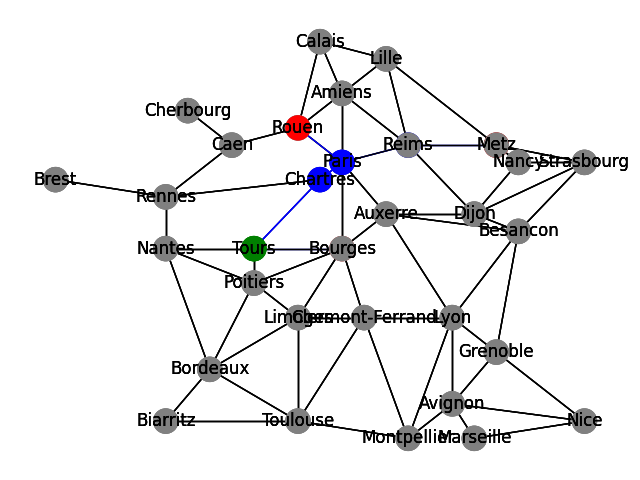
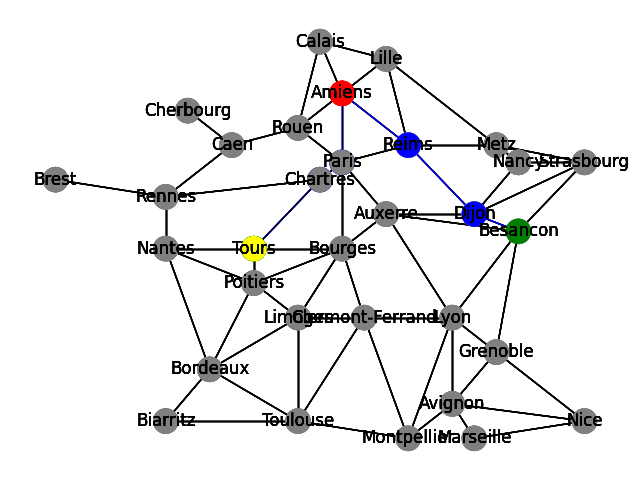
Ajout déplacement entre villes et fin si arrivée à destination

diff --git a/src/view.py b/src/view.py
@@ -1,3 +1,4 @@
+from tkinter import messagebox
 import PIL.ImageTk, PIL.Image
 from tkinter import *
 from tkinter.ttk import Combobox
@@ -19,6 +20,10 @@ class View(Frame):
 
     def set_controller(self, controller):
         self.controller = controller
+    
+    def update_image_France():
+        View.img_France = PIL.ImageTk.PhotoImage(PIL.Image.open("france_graphe.png"))
+        View.lbl_France.configure(image=View.img_France)
 
     def display_choose_route(self):
         self.frm_graph = Frame(master=self)
@@ -59,24 +64,39 @@ class View(Frame):
         self.btn_confirm.pack(fill=X)
         self.btn_start_path.pack(fill=X)
 
-    def update_image_France(self):
-        View.img_France = PIL.ImageTk.PhotoImage(PIL.Image.open("france_graphe.png"))
-        View.lbl_France.configure(image=View.img_France)
+    def start_path(self):
+        controller.Controller.current_town = controller.Controller.start_town
+        controller.Controller.neighbors_current_town = list(controller.Controller.G.neighbors(controller.Controller.current_town))
+        View.frm_ui_choose_route.pack_forget()
+        View.display_choose_next_town(self)
 
     def display_choose_next_town(self):
         View.frm_ui_moving = Frame(master=self)
         self.frm_town_destination = Frame(master=View.frm_ui_moving)
         self.lbl_town_destination = Label(master=self.frm_town_destination, text="Destination")
-        self.cmb_town_destination = Combobox(master=self.frm_town_destination, values=controller.Controller.list_towns_text)
-        self.btn_town_destination = Button(View.frm_ui_moving, text="Se déplacer", command=print("aa"))
+        self.cmb_town_destination = Combobox(master=self.frm_town_destination, values=controller.Controller.neighbors_current_town)
+        self.cmb_town_destination.set(controller.Controller.neighbors_current_town[0])
+        self.btn_town_destination = Button(View.frm_ui_moving, text="Se déplacer", command=lambda:View.move_next_town(self))
 
         self.frm_ui_moving.pack(fill=Y, side=RIGHT, expand=True)
         self.frm_town_destination.pack(fill=X, expand=True)
 
         self.lbl_town_destination.grid(row=0, column=0)
         self.cmb_town_destination.grid(row=0, column=1)
-        self.btn_town_destination.pack()
+        self.btn_town_destination.pack()     
 
-    def start_path(self):
-        View.frm_ui_choose_route.pack_forget()
-        View.display_choose_next_town(self)
+    def move_next_town(self):
+        controller.Controller.current_town = self.cmb_town_destination.get()
+        controller.Controller.neighbors_current_town = list(controller.Controller.G.neighbors(controller.Controller.current_town))
+        self.cmb_town_destination.configure(values=controller.Controller.neighbors_current_town)
+        self.cmb_town_destination.set(controller.Controller.neighbors_current_town[0])
+        controller.Controller.draw_graph_France()
+
+        if(controller.Controller.current_town == controller.Controller.arrival_town):
+            messagebox.showinfo("Information", "Vous êtes arrivé.")
+            View.frm_ui_moving.pack_forget()
+            View.frm_ui_choose_route.pack(fill=Y, side=RIGHT, expand=True)
+            controller.Controller.start_town = controller.Controller.arrival_town
+            controller.Controller.neighbors_current_town = list(controller.Controller.G.neighbors(controller.Controller.start_town))
+            controller.Controller.arrival_town = controller.Controller.neighbors_current_town[0]
+

diff --git a/src/controller.py b/src/controller.py
@@ -1,5 +1,7 @@
-from re import I
+from email import message
+from tkinter import messagebox
 import view
+import model
 
 import matplotlib.pyplot as plt
 import networkx as nx
@@ -13,20 +15,26 @@ class Controller:
     list_towns_text = None
     start_town = None
     arrival_town = None
+    current_town = None
     shortest_path = None
     shortest_path_edges = None
+    neighbors_current_town = None
 
     def __init__(self, model, view):
         self.model = model
         self.view = view
+        self.start_town = self.list_towns_text[0]
+        self.arrival_town = self.list_towns_text[-1]
 
-    def draw_graph_France(self):
+    def draw_graph_France():
         color_map = ["gray"]*len(Controller.G.nodes())
         for i, node in enumerate(Controller.G.nodes()):
             if node == Controller.start_town:
                 color_map[i] = "red"
             elif node == Controller.arrival_town: 
                 color_map[i] = "green"
+            elif node == Controller.current_town: 
+                color_map[i] = "yellow"
             elif node in Controller.shortest_path:
                 color_map[i] = "blue"
 
@@ -37,14 +45,14 @@ class Controller:
         
         
         view.View.lbl_best_path.configure(text="Chemin idéal : {}".format(Controller.shortest_path))
-        nx.draw(self.G, self.pos, with_labels=True, node_color=color_map, edge_color=edge_color_list)
+        nx.draw(Controller.G, Controller.pos, with_labels=True, node_color=color_map, edge_color=edge_color_list)
         plt.savefig("france_graphe.png")
-        view.View.update_image_France(view.View)
+        view.View.update_image_France()
 
 
     def shortest_path_weight(self, start, arrival):
-        Controller.start_town = start
-        Controller.arrival_town = arrival
-        Controller.shortest_path = nx.dijkstra_path(Controller.G, start, arrival)
-        Controller.shortest_path_edges = [(Controller.shortest_path[i],Controller.shortest_path[i+1]) for i in range(len(Controller.shortest_path)-1)]
-        Controller.draw_graph_France(self)
+        if(start == arrival):
+            messagebox.showwarning("Attention", "Le départ et la destination sont identiques.")
+        else:
+            model.Model.get_shortest_path_dijkstra(model, start, arrival)
+            Controller.draw_graph_France()

diff --git a/src/model.py b/src/model.py
@@ -21,3 +21,10 @@ class Model():
             for columnIndex, value in row.items():
                 if value > 0:
                     controller.Controller.G.add_edge(rowIndex, columnIndex, weight=value)
+
+    def get_shortest_path_dijkstra(self, start, arrival):
+        controller.Controller.start_town = start
+        controller.Controller.arrival_town = arrival
+        controller.Controller.shortest_path = nx.dijkstra_path(controller.Controller.G, start, arrival)
+        controller.Controller.shortest_path_edges = [(controller.Controller.shortest_path[i],controller.Controller.shortest_path[i+1]) for i in range(len(controller.Controller.shortest_path)-1)]
+

diff --git a/src/main.py b/src/main.py
@@ -21,6 +21,7 @@ if __name__ == '__main__':
     environ["QT_AUTO_SCREEN_SCALE_FACTOR"] = "1"
     environ["QT_SCREEN_SCALE_FACTORS"] = "1"
     environ["QT_SCALE_FACTOR"] = "1"
+    print()
 
     app = App()
     app.mainloop()
